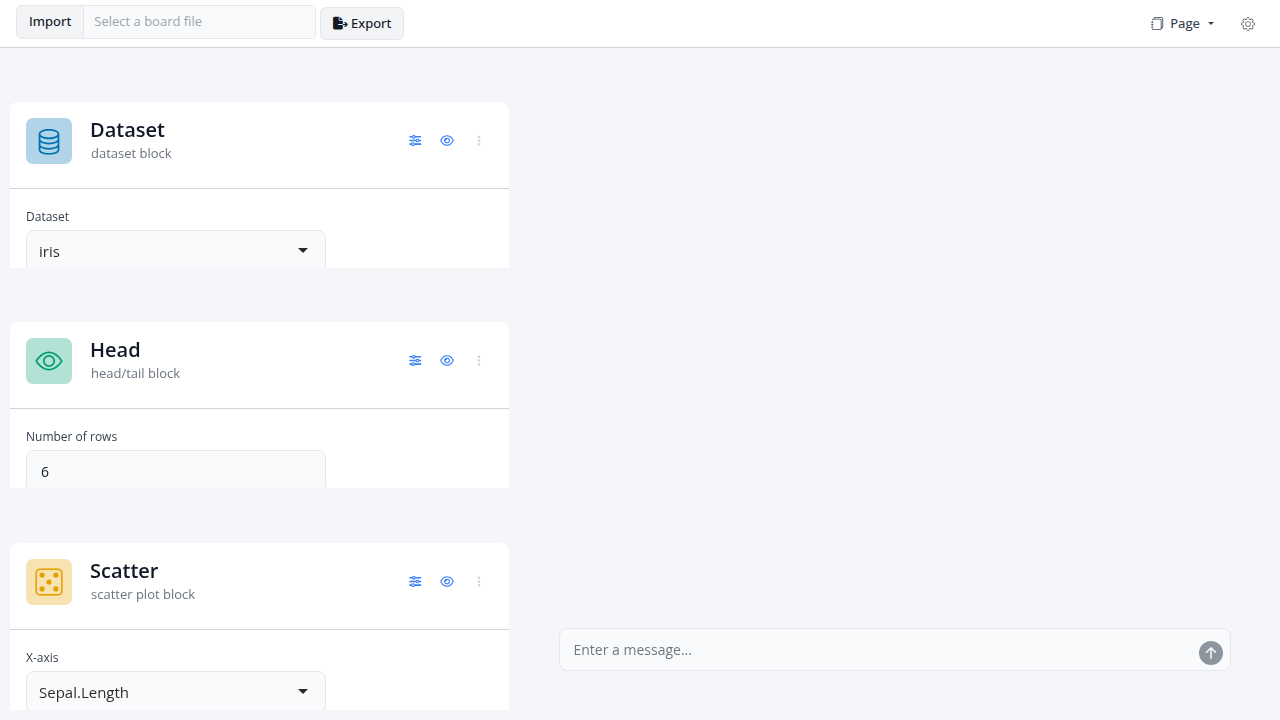
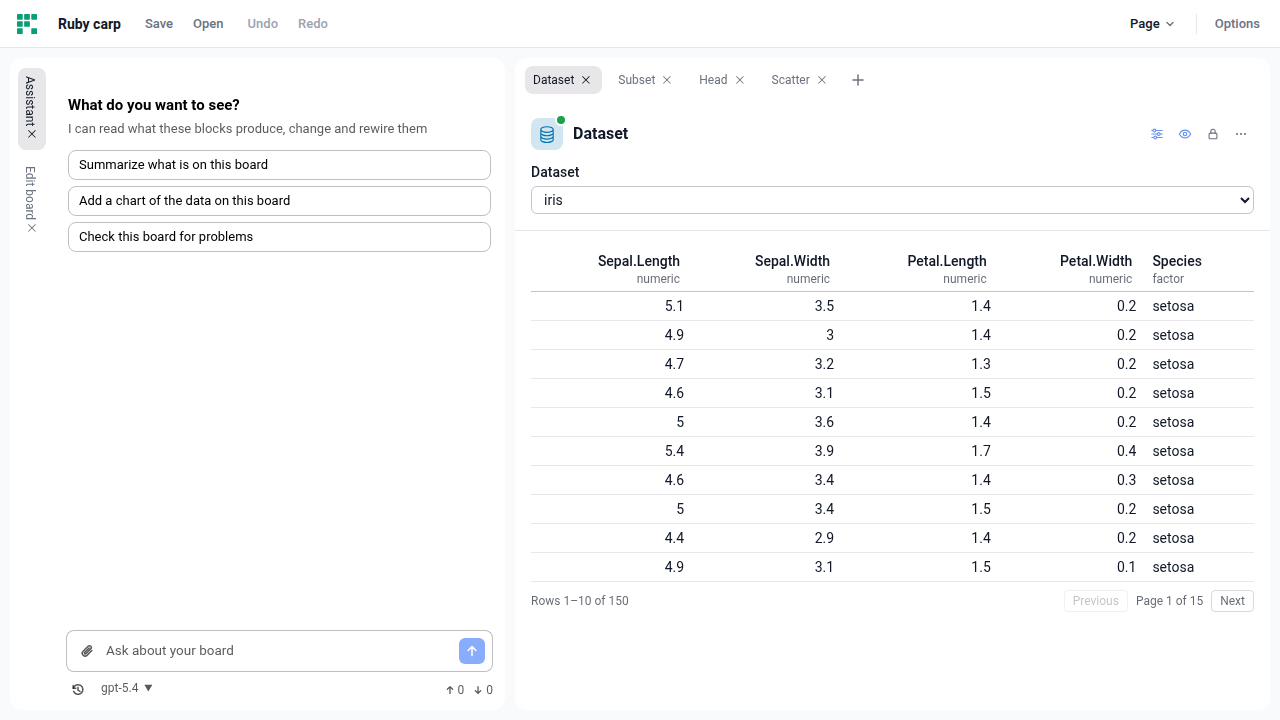
Describe the plugin in the README, with a screenshot of its panel
The README still described the ellmer extension of version 0.1, and linked a
roadmap that #219 removed.

diff --git a/README.md b/README.md
@@ -10,11 +10,18 @@
 [![coverage](https://codecov.io/gh/BristolMyersSquibb/blockr.assistant/graph/badge.svg?token=TxIZnzIqo2)](https://app.codecov.io/gh/BristolMyersSquibb/blockr.assistant)
 <!-- badges: end -->
 
-An [`ellmer`](https://ellmer.tidyverse.org/)-powered chat panel for
-[`blockr.dock`](https://github.com/BristolMyersSquibb/blockr.dock)
-boards. The assistant ships as a `dock_extension` that slots into the
-board layout like any other panel; the chat UI is built on
-[`shinychat`](https://github.com/posit-dev/shinychat).
+The assistant is a plugin for
+[blockr](https://github.com/BristolMyersSquibb/blockr) boards. Its model
+reads the board and edits it beside the user. Each edit runs commands
+that blockr.core and the app’s packages register, as the user’s own
+edits do. So the user’s undo takes back an edit of the assistant’s as it
+takes back any other. The assistant runs its agent loop in the browser.
+It calls its model from the browser too, never through R.
+
+A deployment chooses where the calls go, how they are authenticated and
+which models the assistant offers, through blockr options. It can also
+give the model skills and a template of its own. A package can teach the
+model about what it offers, such as its block classes and its results.
 
 ## Installation
 
@@ -28,31 +35,50 @@ pak::pak("BristolMyersSquibb/blockr.assistant")
 
 ## Example
 
-Mount the assistant on a small board. The chat is wired to whichever
-`ellmer` model the board’s `llm_model` option resolves to (by default
-`ellmer::chat_openai()`); set the `blockr.chat_function` option to swap
-providers.
+An app script puts the assistant’s plugin on its board with
+`new_assistant_plugin()`:
 
 ``` r
-# A small pipeline wired up before the assistant mounts, so it has
-# something to navigate to (not just from). Try:
-#
-# - "What is on the board?" -- the answer should come from the prompt's
-#   Board section, no tool call required.
-# - "What is the unique value of `Species` in the data block?" -- the
-#   model should call `inspect_results(code = "unique(data$Species)")`.
-# - "Add a scatter plot of Sepal.Length vs Petal.Length grouped by
-#   Species" -- the model stages add_block (and add_link) calls, then
-#   calls commit to apply them and read back the result.
-# - "Rename `head` to `top_rows`" -- the model declines the in-place
-#   rename and offers remove + add, triggered by the id-immutability
-#   paragraph in the default prompt's intro (no tool call needed).
-
 library(blockr.core)
-library(blockr.dock)
 library(blockr.assistant)
 
-board <- new_dock_board(
+# A small pipeline on the board before the assistant opens, so that it has
+# something to read and to build on.
+# The app runs under the frontend that its packages give: the dock where
+# blockr.dock is installed, and core's basic frontend otherwise.
+# Try:
+#
+# - "What is on the board?"
+#   The answer comes from the board that each call sends the model, with no
+#   tool call.
+# - "What are the unique values of Species in the data block?"
+#   The model calls inspect_results, with code such as unique(data$Species).
+# - "Add a scatter plot of Sepal.Length against Petal.Length."
+#   The model adds the block and links it in one edit, and reads the edit's
+#   review.
+# - "Change the id of the block head to top_rows."
+#   Ids never change, so the model explains that it would remove the block
+#   and add it again, and asks before it does.
+#
+# The assistant calls its model from the browser.
+# A deployment says where the calls go through the assistant's blockr options.
+# It sets them as environment variables, so that this script stays as it is.
+# A demo on OpenAI's models sets two of them:
+#
+#   BLOCKR_ASSISTANT_API_KEY, the deployment's key
+#   BLOCKR_ASSISTANT_MODELS, the models that it offers, such as gpt-5.4
+#
+# Where the deployment sets no key, the chat asks each visitor for their own.
+# A deployment that sends its calls to another base URL names it in
+# BLOCKR_ASSISTANT_BASE_URL.
+# It names the API that the base URL speaks in BLOCKR_ASSISTANT_API, unless
+# that is OpenAI's Responses API.
+# An app whose visitors log in with OpenRouter sets these two:
+#
+#   BLOCKR_ASSISTANT_BASE_URL, OpenRouter's https://openrouter.ai/api/v1
+#   BLOCKR_ASSISTANT_API, openai-completions
+
+board <- new_board(
   blocks = c(
     data = new_dataset_block("iris"),
     filt = new_subset_block(subset = "Sepal.Length > 5"),
@@ -65,10 +91,10 @@ board <- new_dock_board(
     new_link("filt", "plot", "data")
   ),
   stacks = c(
-    prep    = new_stack(c("data", "filt"), name = "Prep"),
+    prep = new_stack(c("data", "filt"), name = "Prep"),
     display = new_stack(c("head", "plot"), name = "Display")
   ),
-  extensions = list(assistant = new_assistant_extension())
+  plugins = list(assistant = new_assistant_plugin())
 )
 
 serve(board)
@@ -76,20 +102,15 @@ serve(board)
 
 <figure>
 <img src="man/figures/screenshot.png"
-alt="Assistant panel mounted next to a small blockr.dock board." />
-<figcaption aria-hidden="true">Assistant panel mounted next to a small
-<code>blockr.dock</code> board.</figcaption>
+alt="The assistant’s panel on the left rail of the dock, beside the blocks of a small board." />
+<figcaption aria-hidden="true">The assistant’s panel on the left rail of
+the dock, beside the blocks of a small board.</figcaption>
 </figure>
 
-## Status
-
-The assistant is feature-complete for the initial roadmap: read tools
-(`list_blocks`, `describe_block`, `inspect_results`, …), mutation tools
-(`add_block`, `modify_block`, …) flushed atomically per turn, and a
-system prompt refreshed on every materialized board change so the model
-always sees the current shape of the board.
-
-See the
-[roadmap](https://bristolmyerssquibb.github.io/blockr.assistant/articles/design/0-roadmap.html)
-for the staged plan and the per-phase design notes for what was shipped
-in each phase.
+The guide, [Get
+started](https://bristolmyerssquibb.github.io/blockr.assistant/articles/get-started.html),
+says how an app offers the assistant and how a package teaches its
+model. An app script written for blockr.assistant 0.1 changes as the
+[migration
+notes](https://bristolmyerssquibb.github.io/blockr.assistant/articles/migration-notes.html)
+say.
